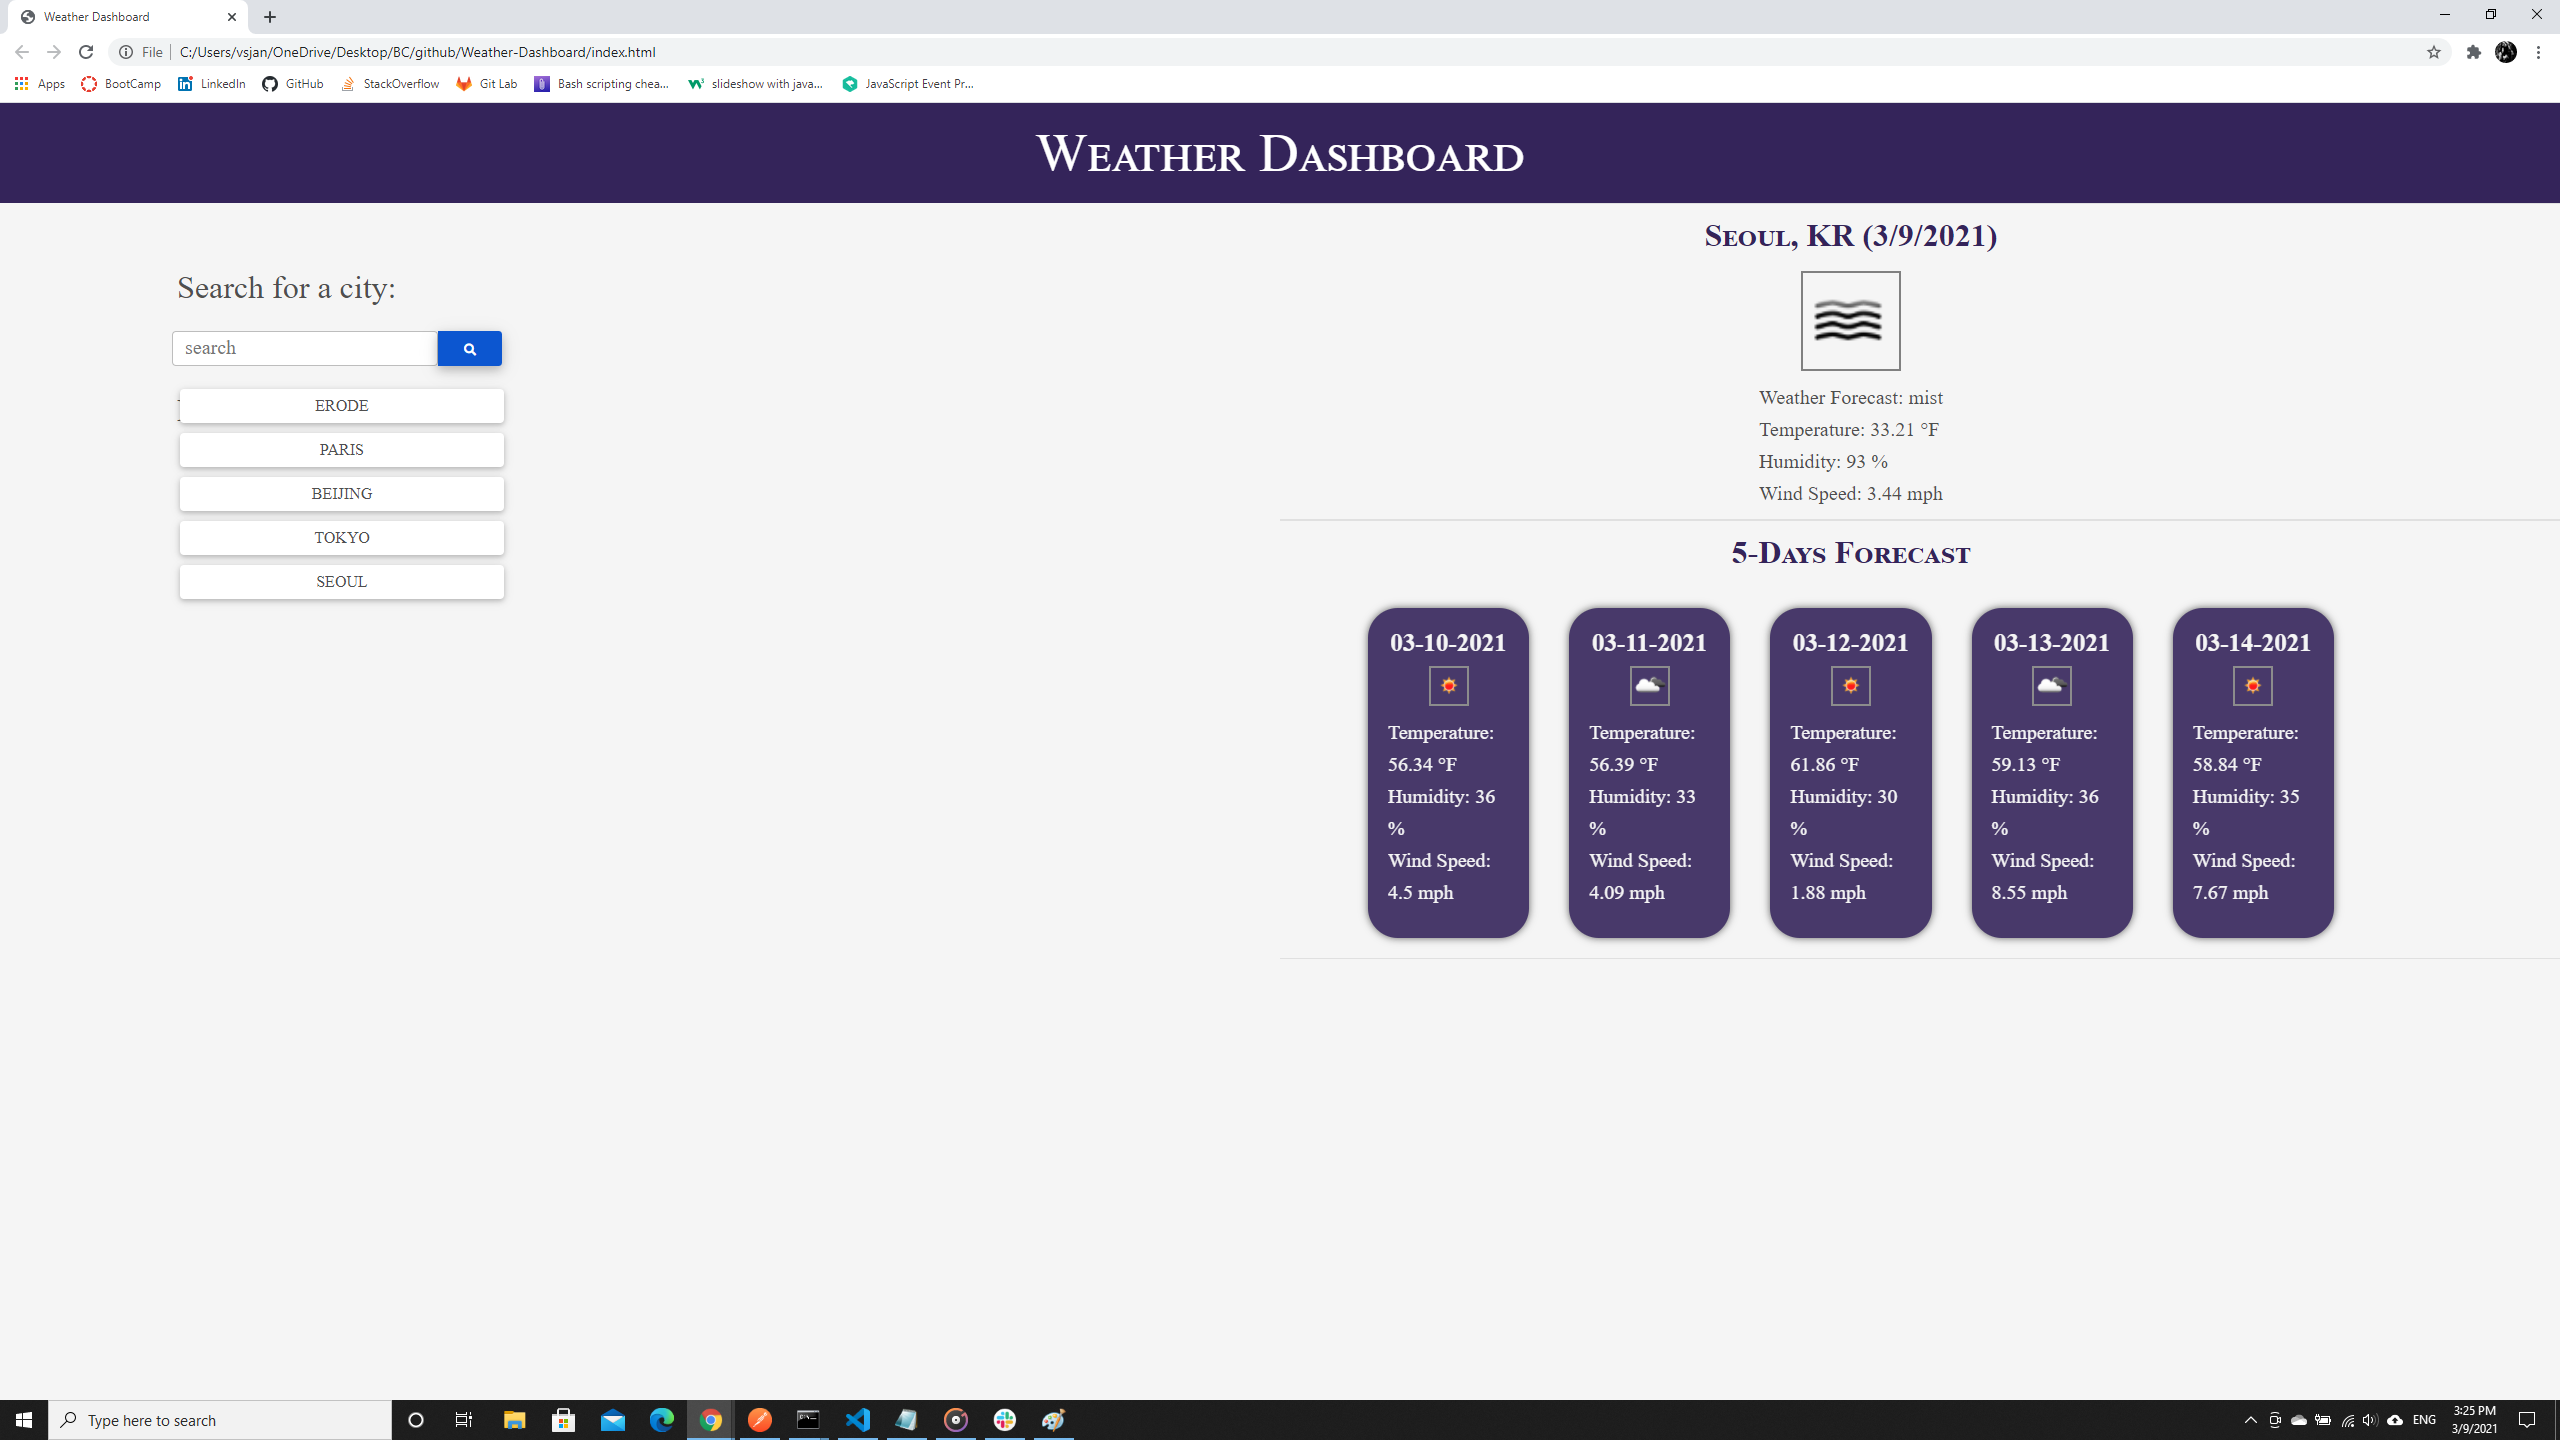
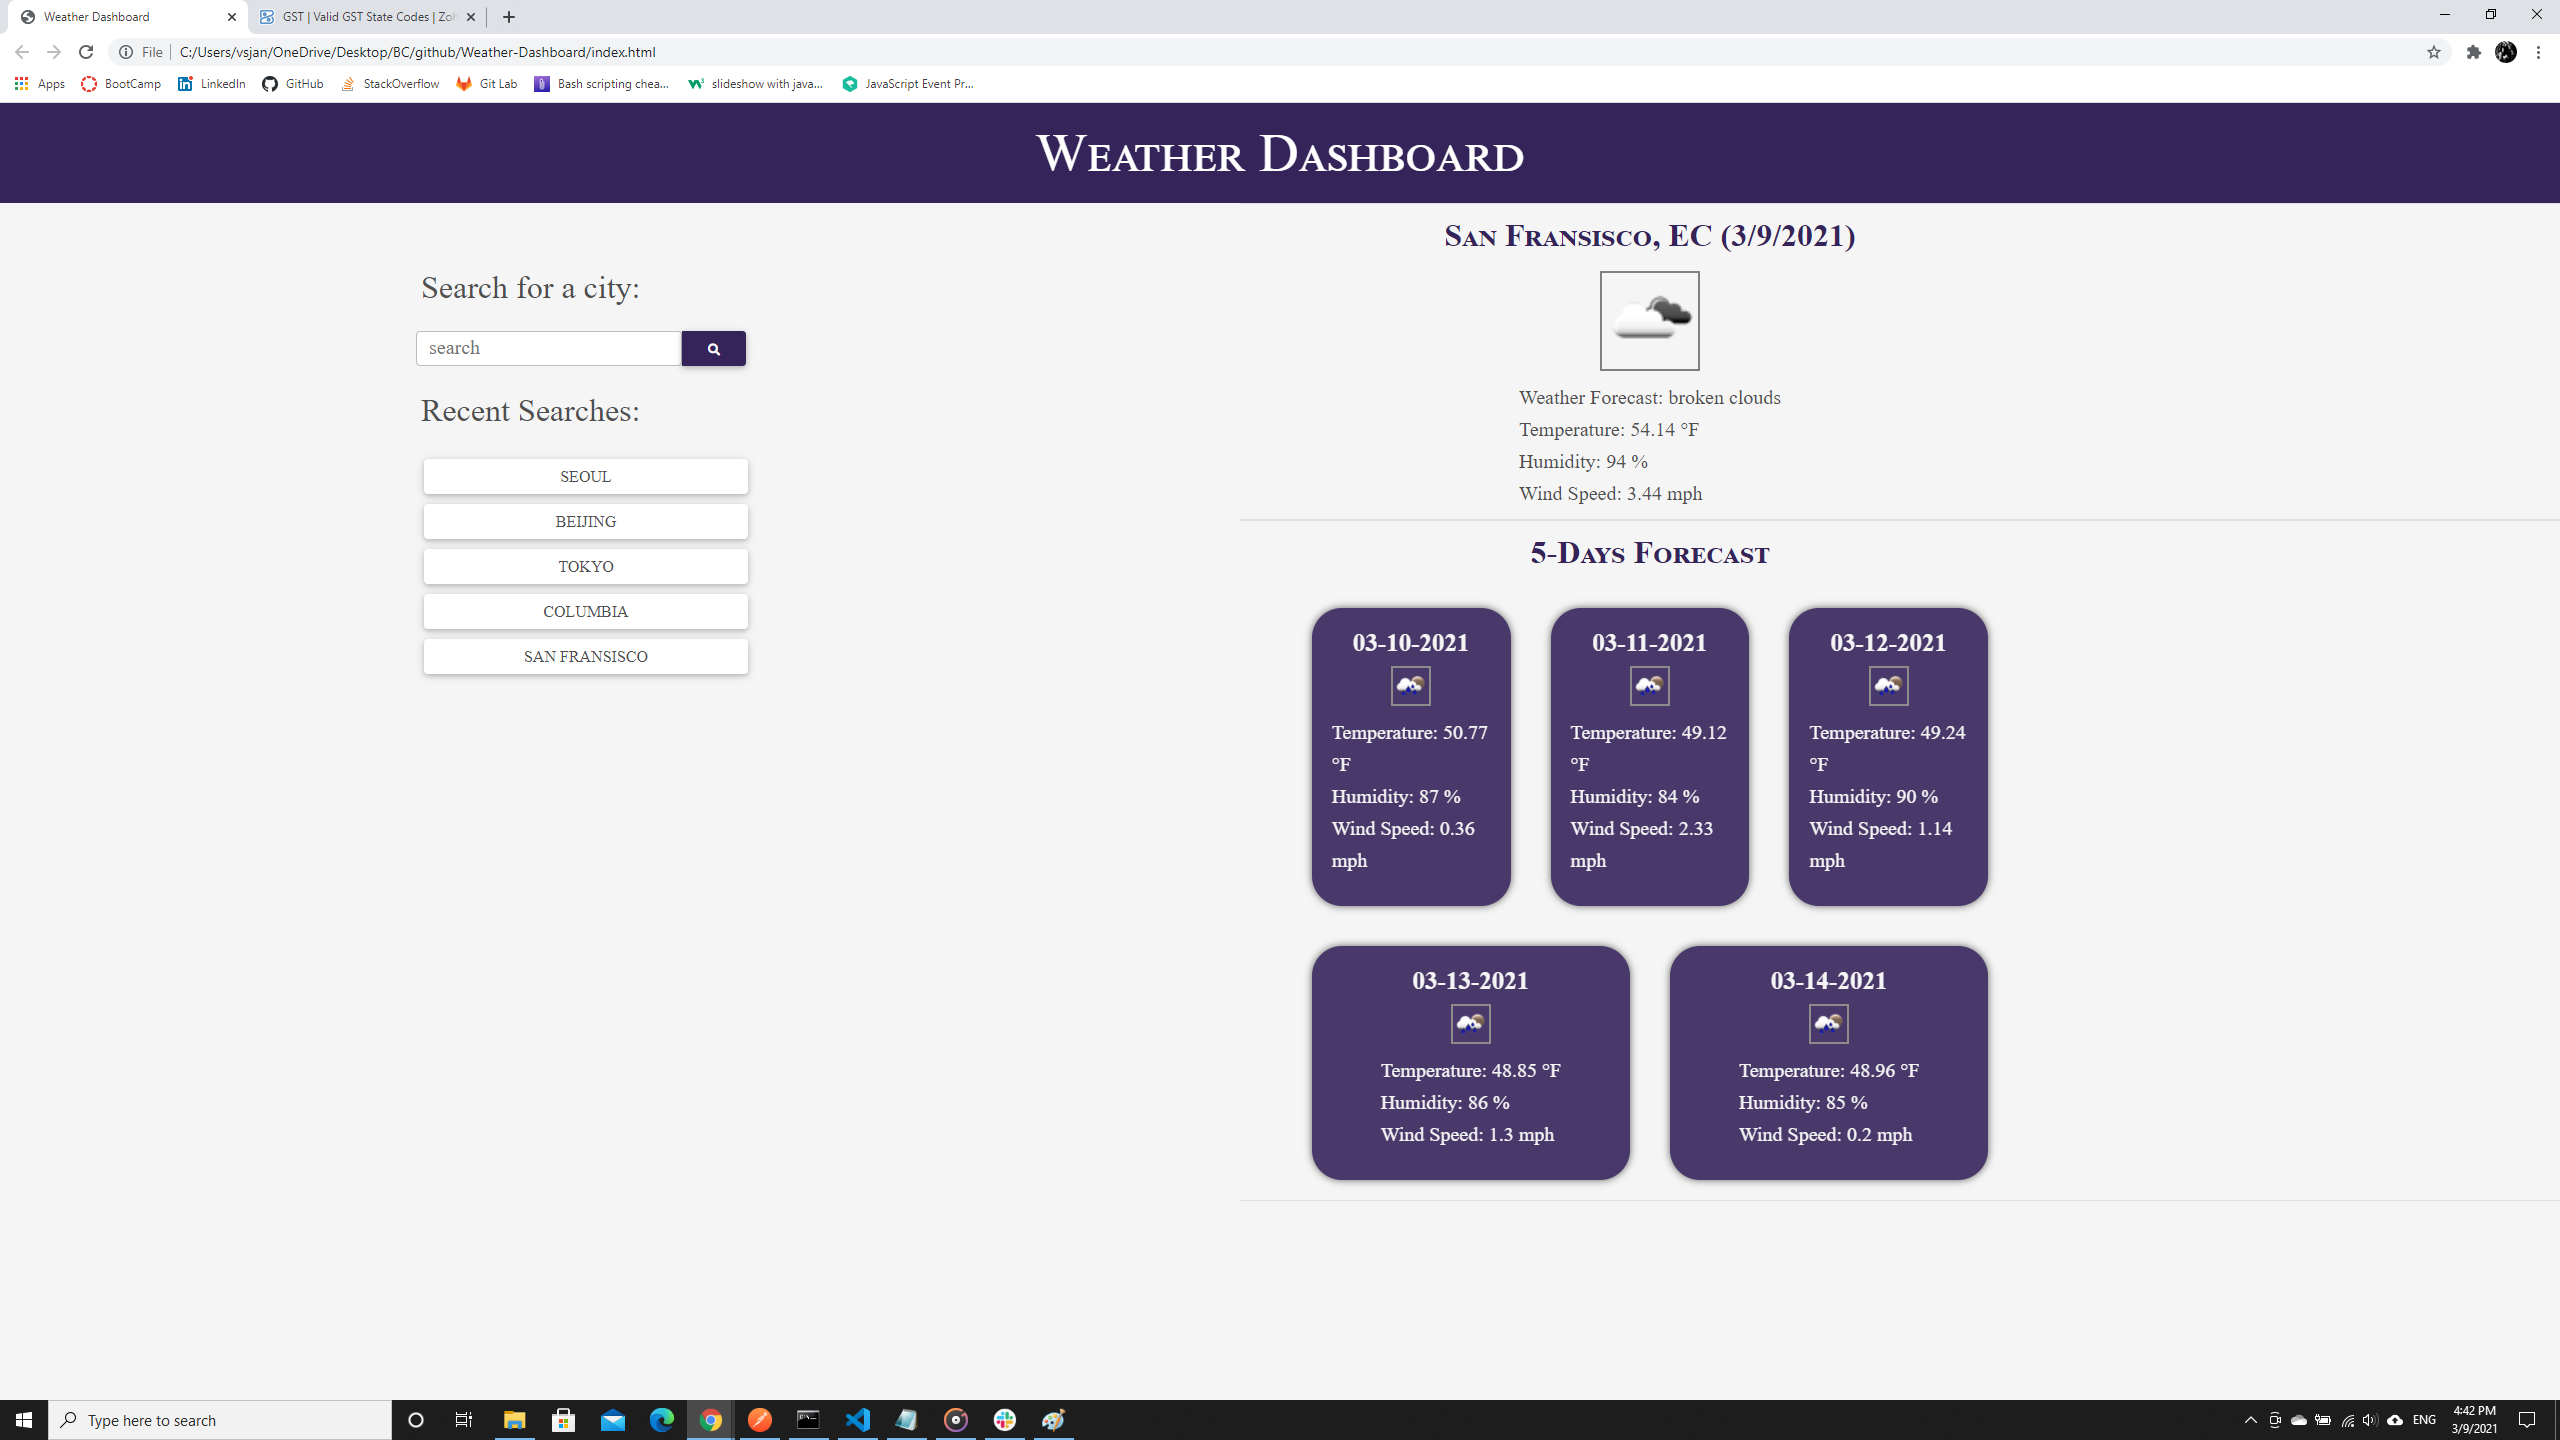
updated the screenshot in readme

diff --git a/assets/styles/style.css b/assets/styles/style.css
@@ -258,6 +258,7 @@ header h1 {
         display: block;
         float: left;
         margin: 50px 0 0 150px;
+        padding-left: 10%;
     }
 
     .modal-dialog {
@@ -267,8 +268,8 @@ header h1 {
 
     .displayres, 
     .displayday {
-        width:50%;
-        padding-right: 150px;
+        width:65%;
+        padding-right: 20%;
         display: block;
         float: right;
     }

diff --git a/readme.md b/readme.md
@@ -6,7 +6,7 @@ The weather dashboard helps you to search for daily weather and 5 day forecast o
 2. city name,statecode (eg: Newark,ca)
 3. city name,statecode,countrycode (eg: Newark,ca,us)
 
-Please note that
+Please use ISO 3166 country codes for better results. if you get 404 not found error, try refining the search input. Last 5 searches are saved in local storage and displayed as button.
 
 ## Live URL
 Please find the website deployed here - [(/)]
